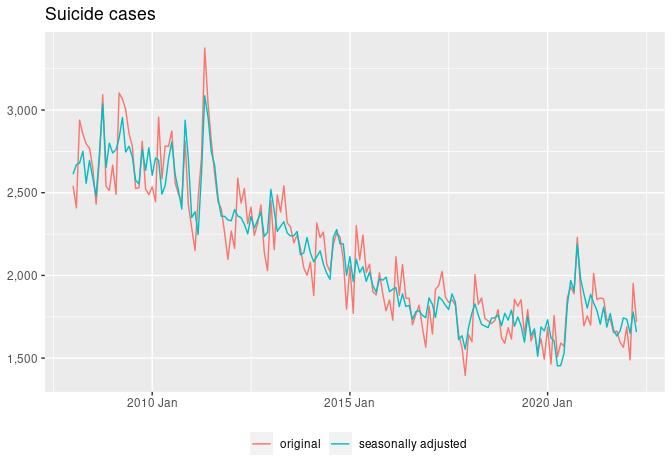
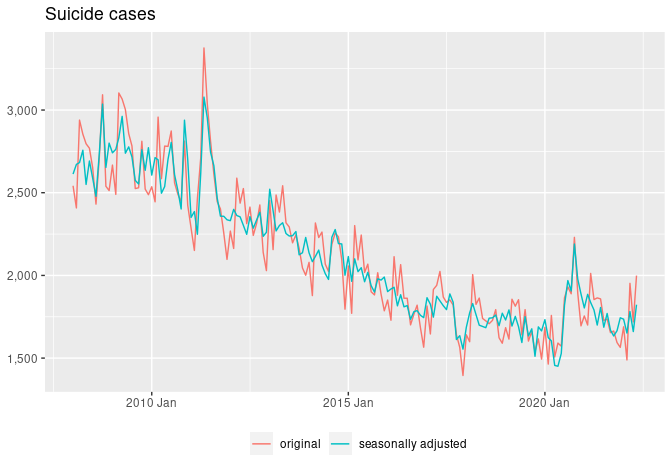
preliminary May 2022 cases

diff --git a/README.md b/README.md
@@ -10,7 +10,7 @@ Mitsuo Shiota
 -   [Suicide cases are bouncing back, but not as fast as the program
     suggests](#suicide-cases-are-bouncing-back-but-not-as-fast-as-the-program-suggests)
 
-Updated: 2022-06-01
+Updated: 2022-06-10
 
 ## Motivation
 
